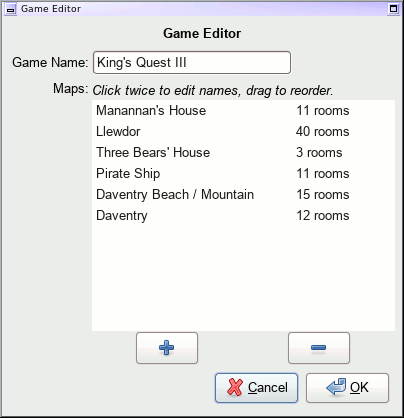
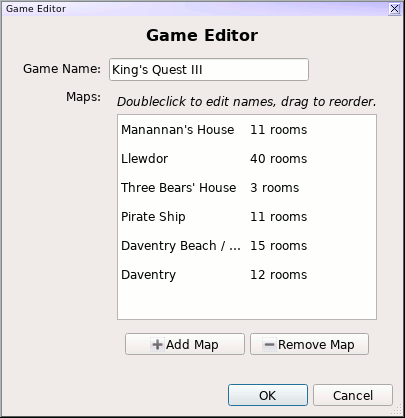
Update README now that we're probably pretty close to merging in.  Also update our screenshots to actually be of the PyQt version

diff --git a/README.md b/README.md
@@ -1,15 +1,3 @@
-WARNING
-=======
-
-This branch is a rewrite/port of the GUI from pygtk to pyqt.  It's far less
-tested than the main gtk+ version, and still has a few rough edges (it's
-possible to do some weird things when dragging rooms around in the Game
-Edit dialog, for instance - be sure to only drag into the first column),
-but otherwise it's essentially feature-complete.  Use with caution, but in
-general it should work all right at the moment.  Once I get a few more
-niggling weird Qt things figured out (like the aforementioned dragging
-issue), I'll probably be merging this into master.
-
 Adventure Game Mapper
 =====================
 
@@ -36,15 +24,13 @@ games which I'd used the map as a general- purpose note-taking device as well.
 Running
 -------
 
-This is written in Python 2.7, using PyGTK2/PyCairo, and is therefore a gtk+-2
-application.  As far as I know, PyGTK2 doesn't work with Python 3 (you've
-instead got to start using gobject for gtk+-3 bindings instead), so this
-remains a Python 2 app.
+This application is written in Python 3 (only tested with Python 3.6), using
+PyQt5 as its GUI toolkit.  Previous versions of the app used PyGTK2 and used
+only supported Python 2.
 
 I've developed this and run it exclusively on Linux, but it should work on
-anything you can get PyGTK2/PyCairo to work on.  I believe that's not too
-difficult on Windows, though it will probably give OSX users a run for their
-money.
+anything you can get PyQt to work on.  I believe that this should be possible
+on both Windows and OSX, though I have no experience trying with either.
 
 This doesn't have a `setup.py`, alas - just run it from this directory and
 load up a file in the `data` directory, or start making your own.
